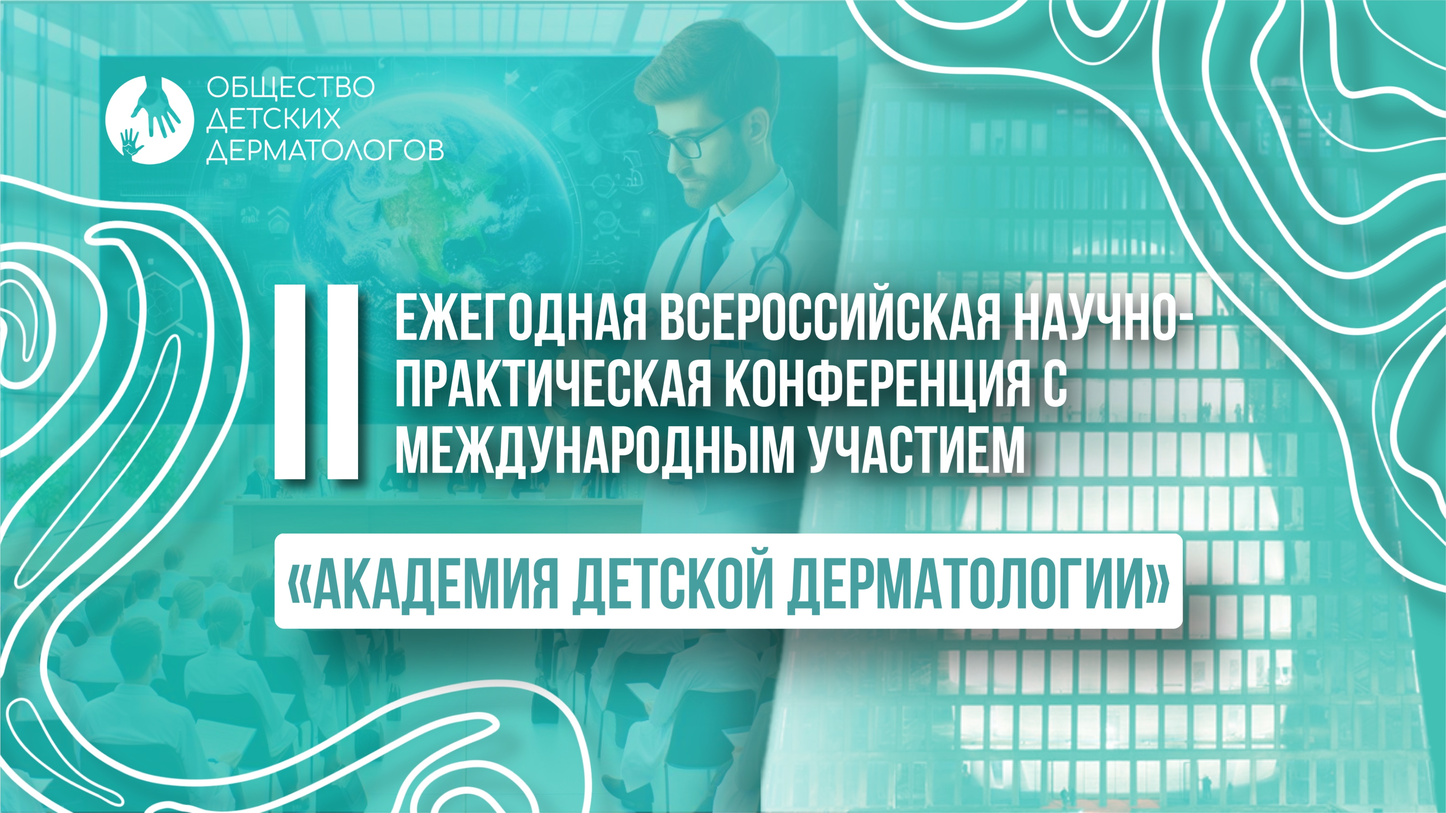
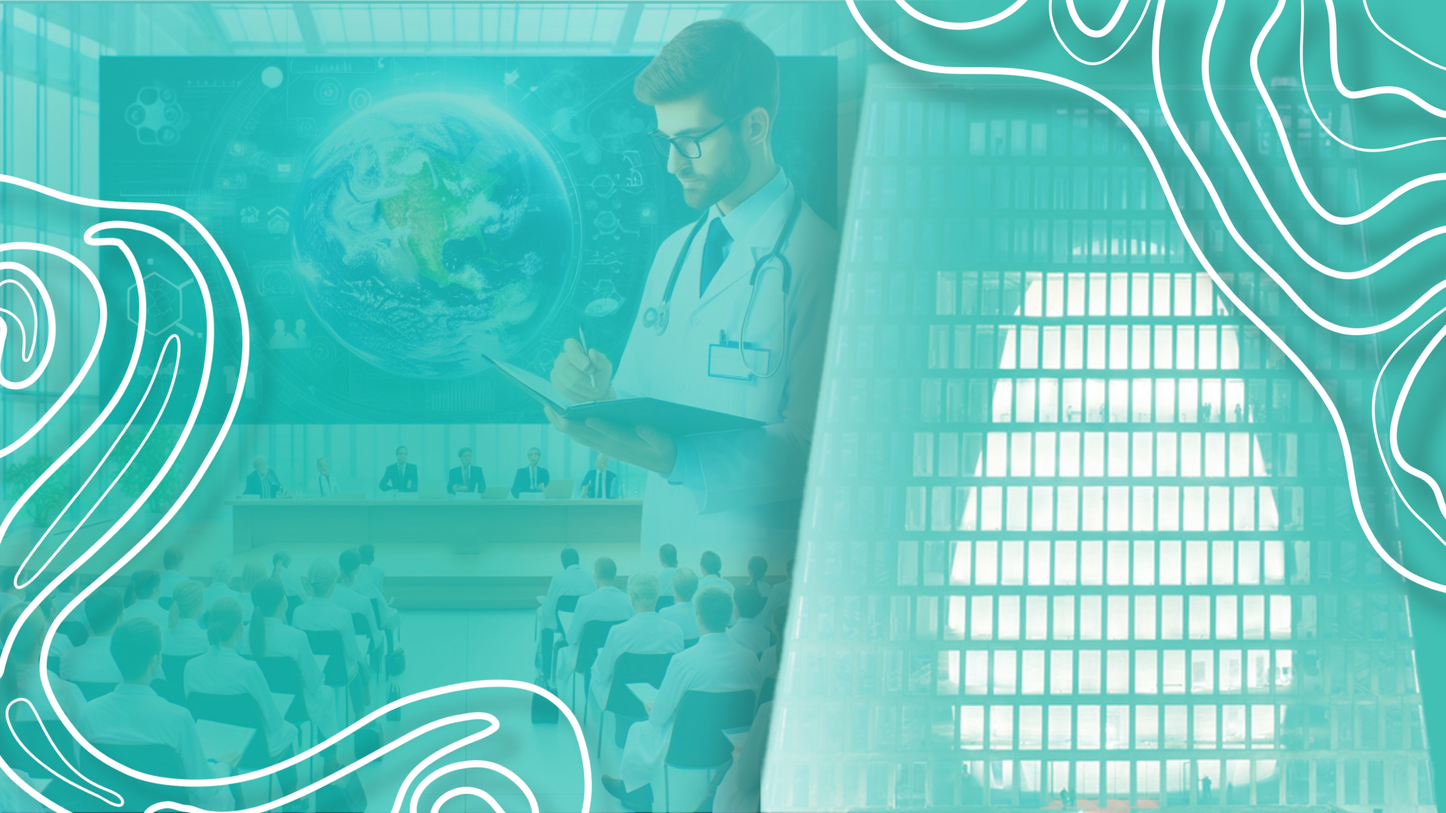
new image

diff --git a/src/components/Calendar.tsx b/src/components/Calendar.tsx
@@ -164,7 +164,7 @@ const Calendar = () => {
             title: 'II-я ежегодная всероссийская научно-практическая конференция с международным участием',
             subtitle: '«Академия детской дерматологии»',
             timePeriod: '10:00',
-            image: '/pages/events/ekb_bg.jpeg',
+            image: '/pages/main/08_06.JPG',
             link: '/events/20daf2b7-2af4-4c9b-96f3-b104163f211c/'
         }],
         jul: [{}],
